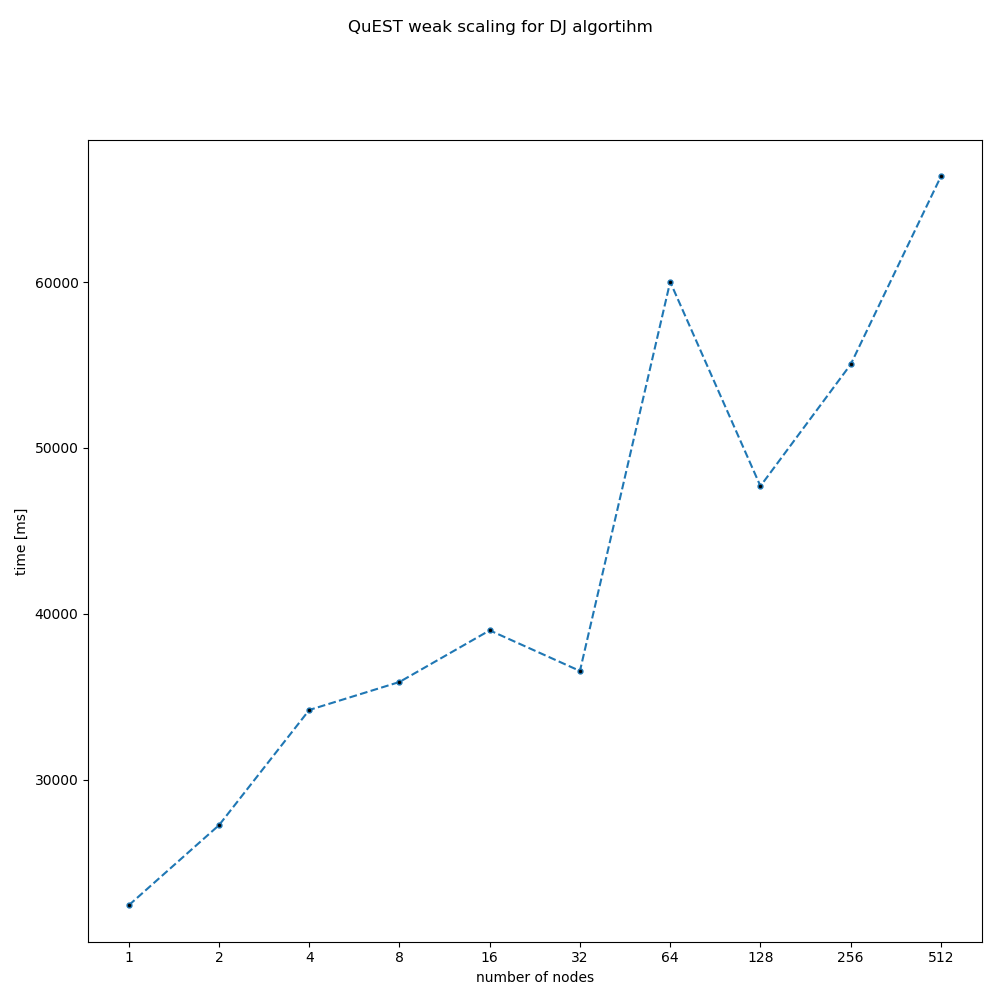
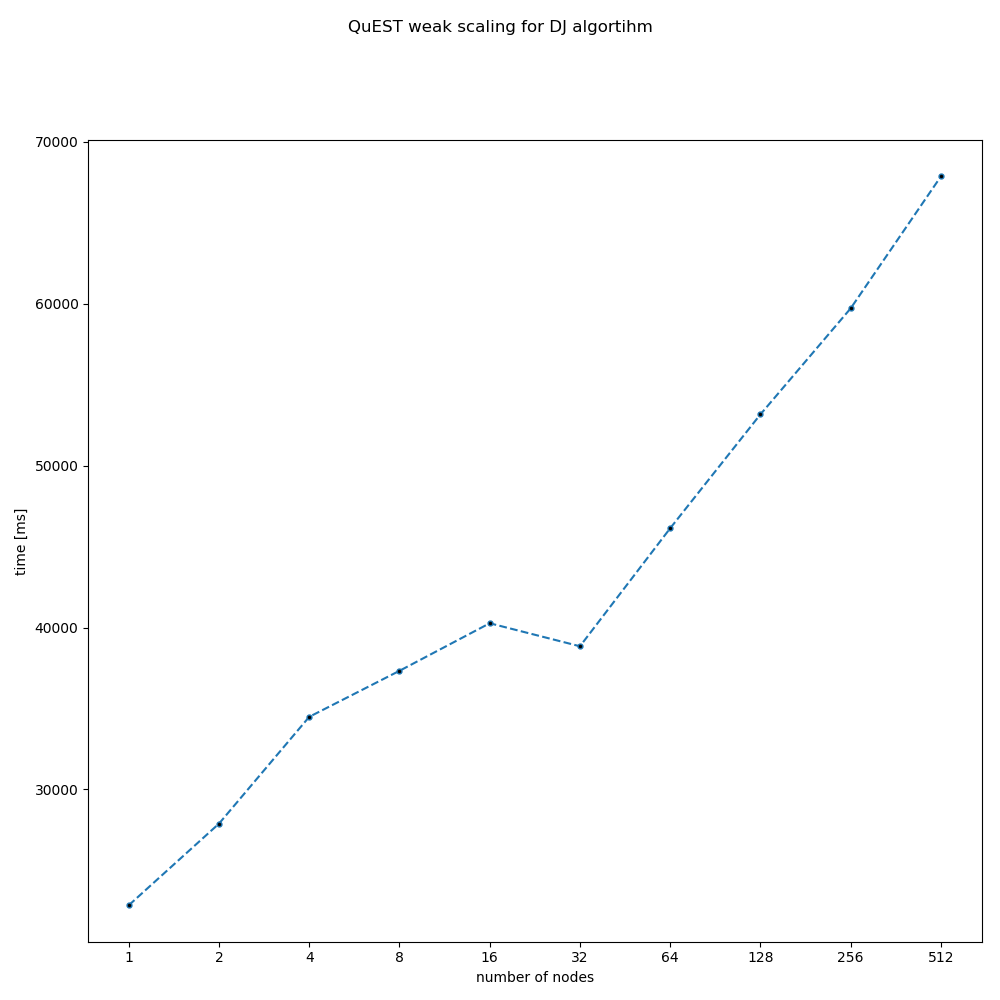
add single-qubit-gates.cpp for weak scaling

diff --git a/examples_giulia/single-qubit-gates.cpp b/examples_giulia/single-qubit-gates.cpp
@@ -1,0 +1,127 @@
+//
+// Created by giuli on 25/04/2019.
+//
+
+// weak scaling benchmark for single-qubit-gates
+#pragma once
+#include "math_util.hpp"
+
+void printAvgTimes(std::vector<long long> &times, int steps, int nrep){
+    std::vector<long long> tempTimes;
+    tempTimes.reserve(nrep-1);
+    for (int j = 0; j < steps; ++j) {
+        for (int l = 1; l < nrep; ++l) {
+            tempTimes.push_back(times[j+l*steps]);
+        }
+        // output the duration vector over repetitions
+        std::cout << "Duration [ms] = ";
+        for (int i = 0; i < nrep-1; ++i) {
+            std::cout << tempTimes[i];
+            if (i < nrep - 2) {
+                std::cout << ", ";
+            }
+        }
+        std::cout << std::endl;
+        // output statistics
+        auto statistics = computeStatistics(tempTimes);
+        std::cout << "Avg time [ms] = " << statistics.first << ", Std deviation = " << statistics.second << " (Position k = " << j << ")" << std::endl;
+        tempTimes.clear();
+    }
+    std::cout << std::endl;
+}
+
+int main(int narg, char *varg[]) {
+    //load quest
+    QuESTEnv env = createQuESTEnv();
+    // command line arguments
+    cxxopts::Options desc(varg[0], "Allowed Options");
+    desc.add_options()
+            ("help", "produce help message")
+            ("N,number", "Number of qubits", cxxopts::value<int>()->default_value("13"))
+            ("p,position", "Index of the staring position", cxxopts::value<int>()->default_value("0"))
+            ("r,repetitions", "Number of repetitions", cxxopts::value<int>()->default_value("4"));
+
+    auto vm = desc.parse(narg, varg);
+
+    if (vm.count("help")) {
+        std::cout << desc.help() << std::endl;
+        return 1;
+    }
+
+    const int n = vm["N"].as<int>();
+    const int startPos = vm["p"].as<int>();
+    const int nrep = vm["r"].as<int>();
+
+    int steps = n - startPos;
+    if (steps <= 0){
+        std::cout << "Error: Index of the starting position p must be smaller than the number of qubits n, p < n!" << std::endl;
+        exit(1);
+    }
+
+    std::vector<long long> timesH;
+    timesH.reserve(steps*nrep);
+
+    std::vector<long long> timesX;
+    timesX.reserve(steps*nrep);
+
+    std::vector<long long> timesT;
+    timesT.reserve(steps*nrep);
+
+    Qureg qureg = createQureg(n, env);
+
+    for (int i = 0; i < nrep; ++i) {
+        // hadamard
+        for (int k = startPos; k < n; ++k) {
+            initZeroState(qureg);
+            syncQuESTEnv(env);
+            auto startH = std::chrono::steady_clock::now();
+            hadamard(qureg, k);
+            syncQuESTEnv(env);
+            auto endH = std::chrono::steady_clock::now();
+            auto durationH = std::chrono::duration_cast<std::chrono::milliseconds>(endH - startH).count();
+            timesH.push_back(durationH);
+        }
+
+        // pauli X
+        for (int k = startPos; k < n; ++k) {
+            initZeroState(qureg);
+            syncQuESTEnv(env);
+            auto startX = std::chrono::steady_clock::now();
+            pauliX(qureg, k);
+            syncQuESTEnv(env);
+            auto endX = std::chrono::steady_clock::now();
+            auto durationX = std::chrono::duration_cast<std::chrono::milliseconds>(endX - startX).count();
+            timesX.push_back(durationX);
+        }
+
+        // T gate
+        for (int k = startPos; k < n; ++k) {
+            initZeroState(qureg);
+            syncQuESTEnv(env);
+            auto startT = std::chrono::steady_clock::now();
+            tGate(qureg, k);
+            syncQuESTEnv(env);
+            auto endT = std::chrono::steady_clock::now();
+            auto durationT = std::chrono::duration_cast<std::chrono::milliseconds>(endT - startT).count();
+            timesT.push_back(durationT);
+        }
+    }
+
+    destroyQureg(qureg, env);
+
+    // output data (times)
+    if (env.rank == 0) {
+
+        std::cout << "Gate H:" << std::endl;
+        printAvgTimes(timesH, steps, nrep);
+        std::cout << "Gate X:" << std::endl;
+        printAvgTimes(timesX, steps, nrep);
+        std::cout << "Gate T:" << std::endl;
+        printAvgTimes(timesT, steps, nrep);
+
+    }
+
+    destroyQuESTEnv(env);
+    return 0;
+}
+

diff --git a/benchmarks/plot-programs/weak-dj-plot.py b/benchmarks/plot-programs/weak-dj-plot.py
@@ -6,7 +6,7 @@ numQubits = [28, 29, 30, 31, 32, 33, 34, 35, 36, 37]  # input number n
 a = [1, 2, 3, 4, 5, 6, 7, 8, 9, 10]  # needed for plotting
 
 # readout data from textfile
-filenames = ["../output-files/weak-dj-bench.txt"]
+filenames = ["../output-files/weak-dj-bench-data2.txt"]
 master_data = []
 data = [master_data]
 
